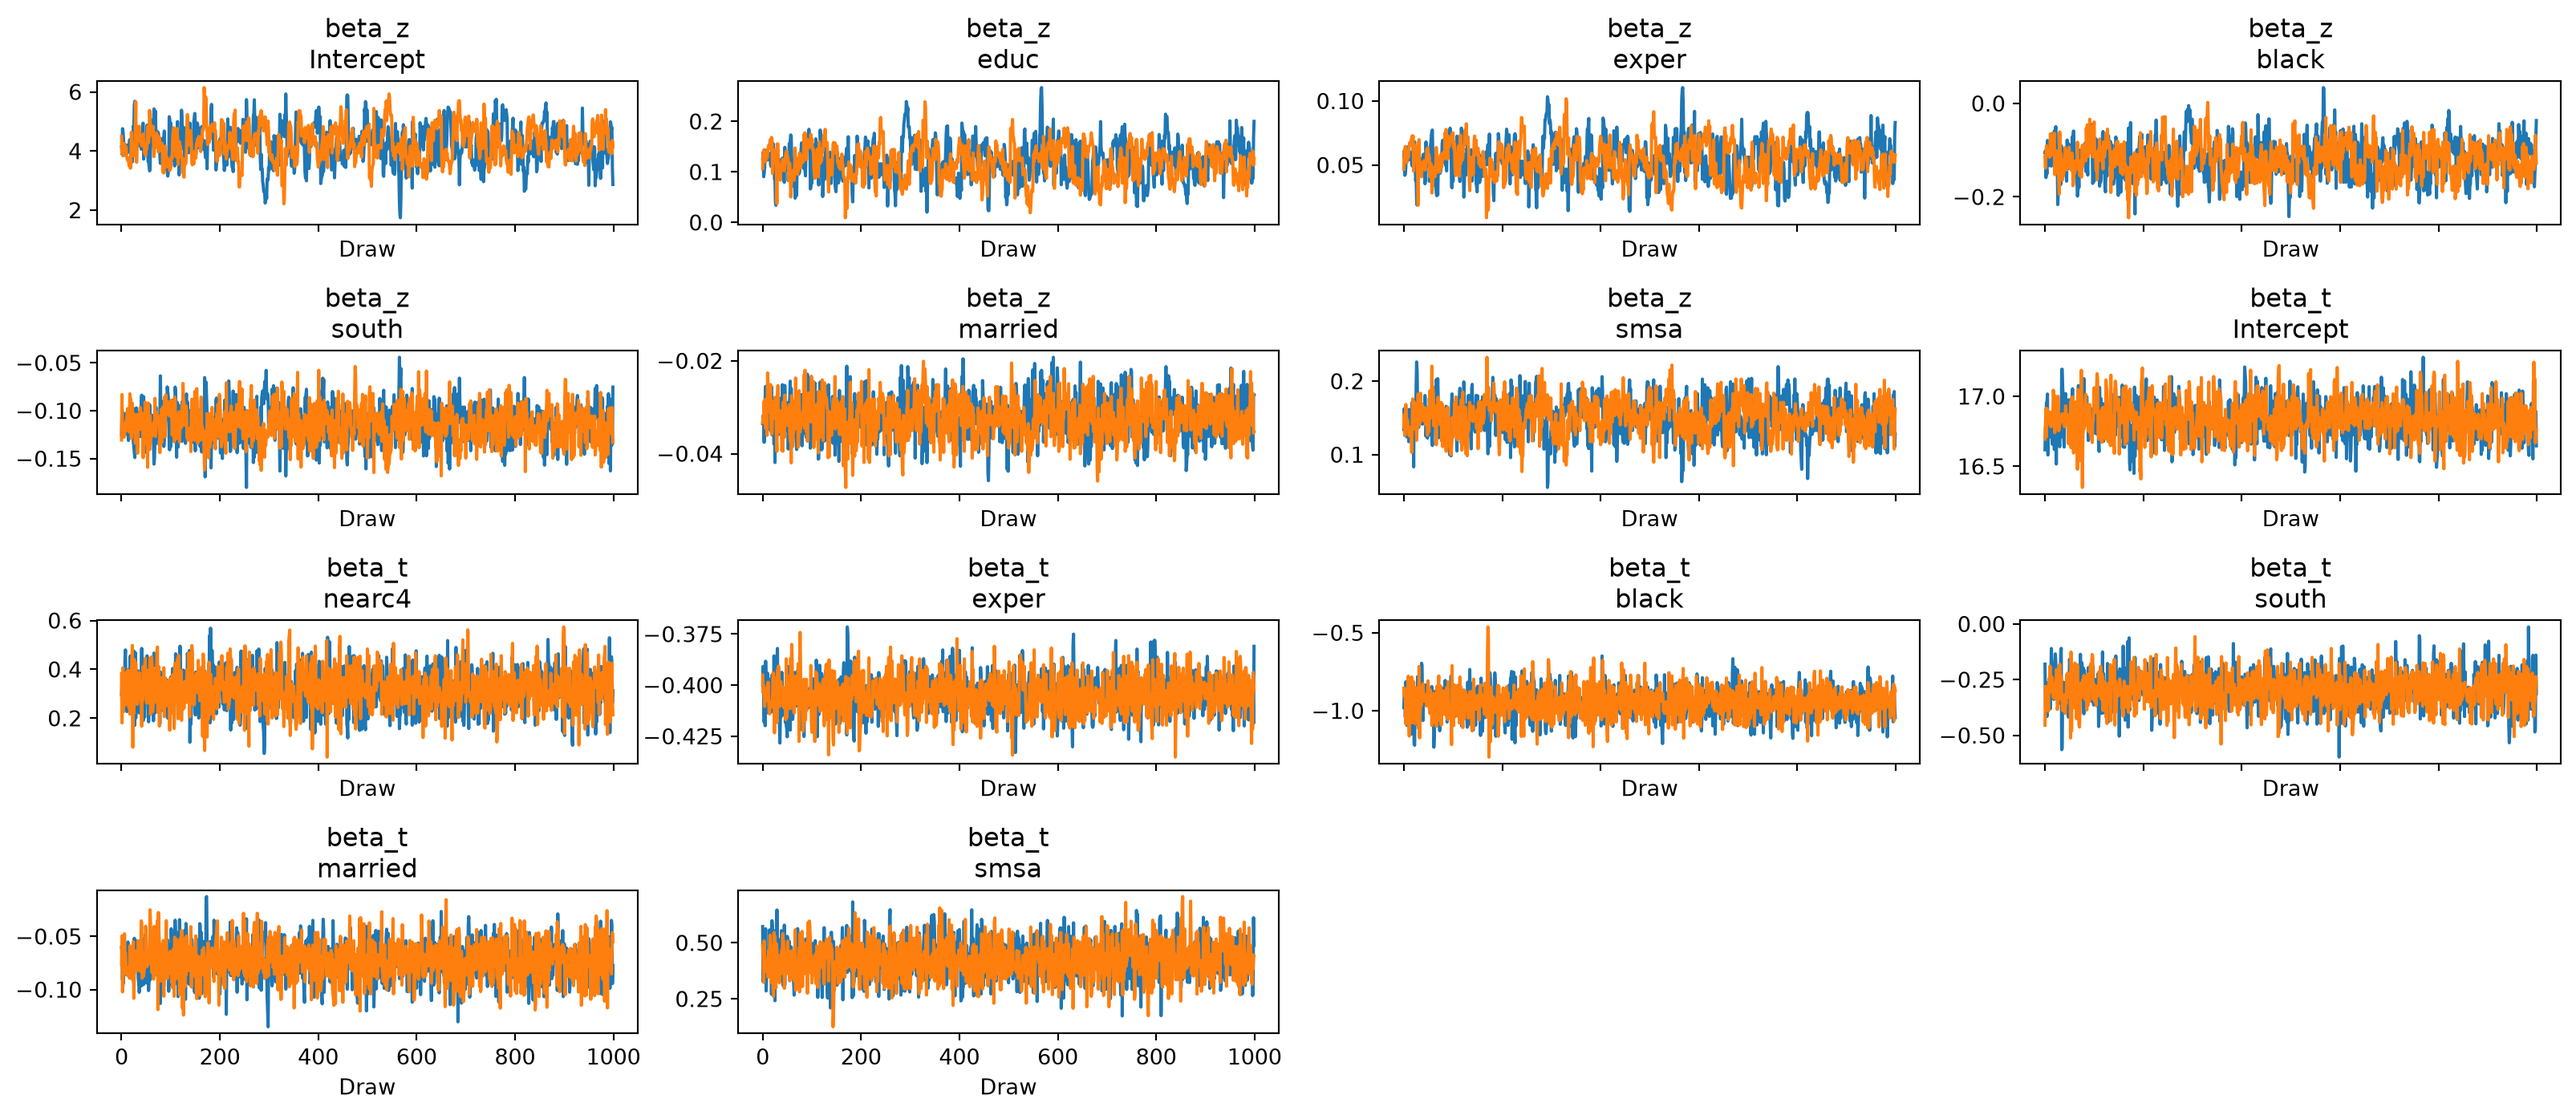
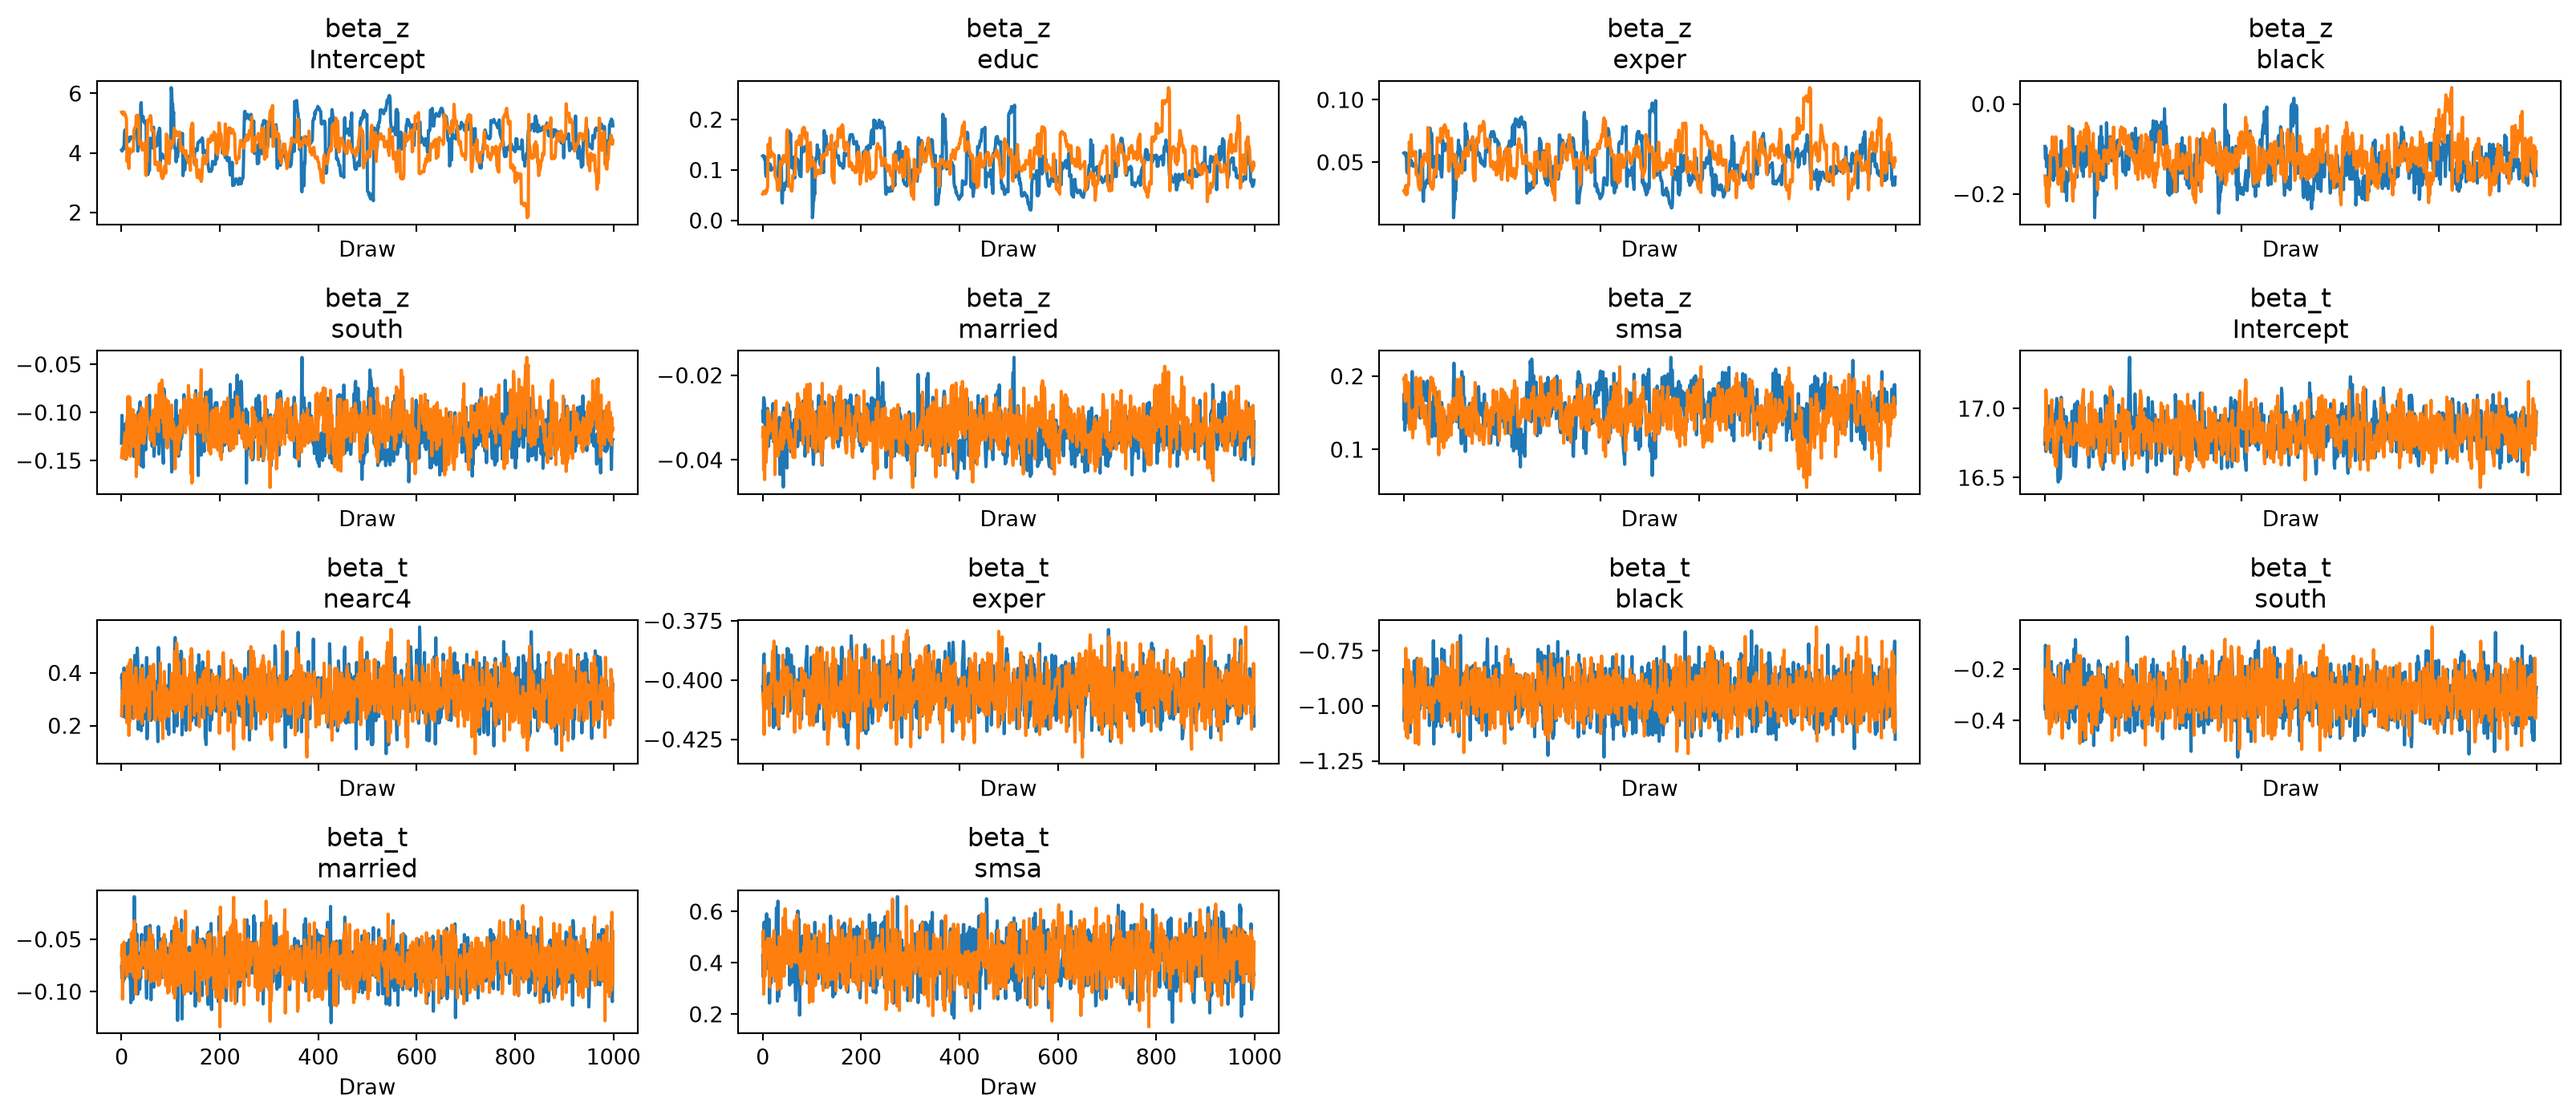
Scale the judge calendar controls so the posterior mixes.
Center and scale day, day2, and bailDate before the judge IV fit. Nutpie with 400 tune steps and 200 draws recovers the 2SLS reference: mean 0.147, r-hat 1.02.

diff --git a/REPO_PLAN.md b/REPO_PLAN.md
@@ -206,7 +206,7 @@ Below is a complete catalog of the Python files in the Mixtape repo, mapped to c
 
 **Page**: `notebooks/07_instrumental_variables.qmd`
 - Card's proximity to college as instrument for education, with `exper`, `black`, `south`, `married`, and `smsa` in both stages
-- `bail.py` is Chapter 7. The page fits `guilt` on `jail3` with the script's small control set. No first-stage F is reported. JIVE is not run
+- `bail.py` is Chapter 7. The page fits `guilt` on `jail3` with the script's small control set. Calendar controls are centered and scaled so the default prior scale of 1 is not applied to the raw day-squared column. No first-stage F is reported. JIVE is not run
 - Reference: fuzzy RD (issue #221) for connection to RD chapter
 
 ---
